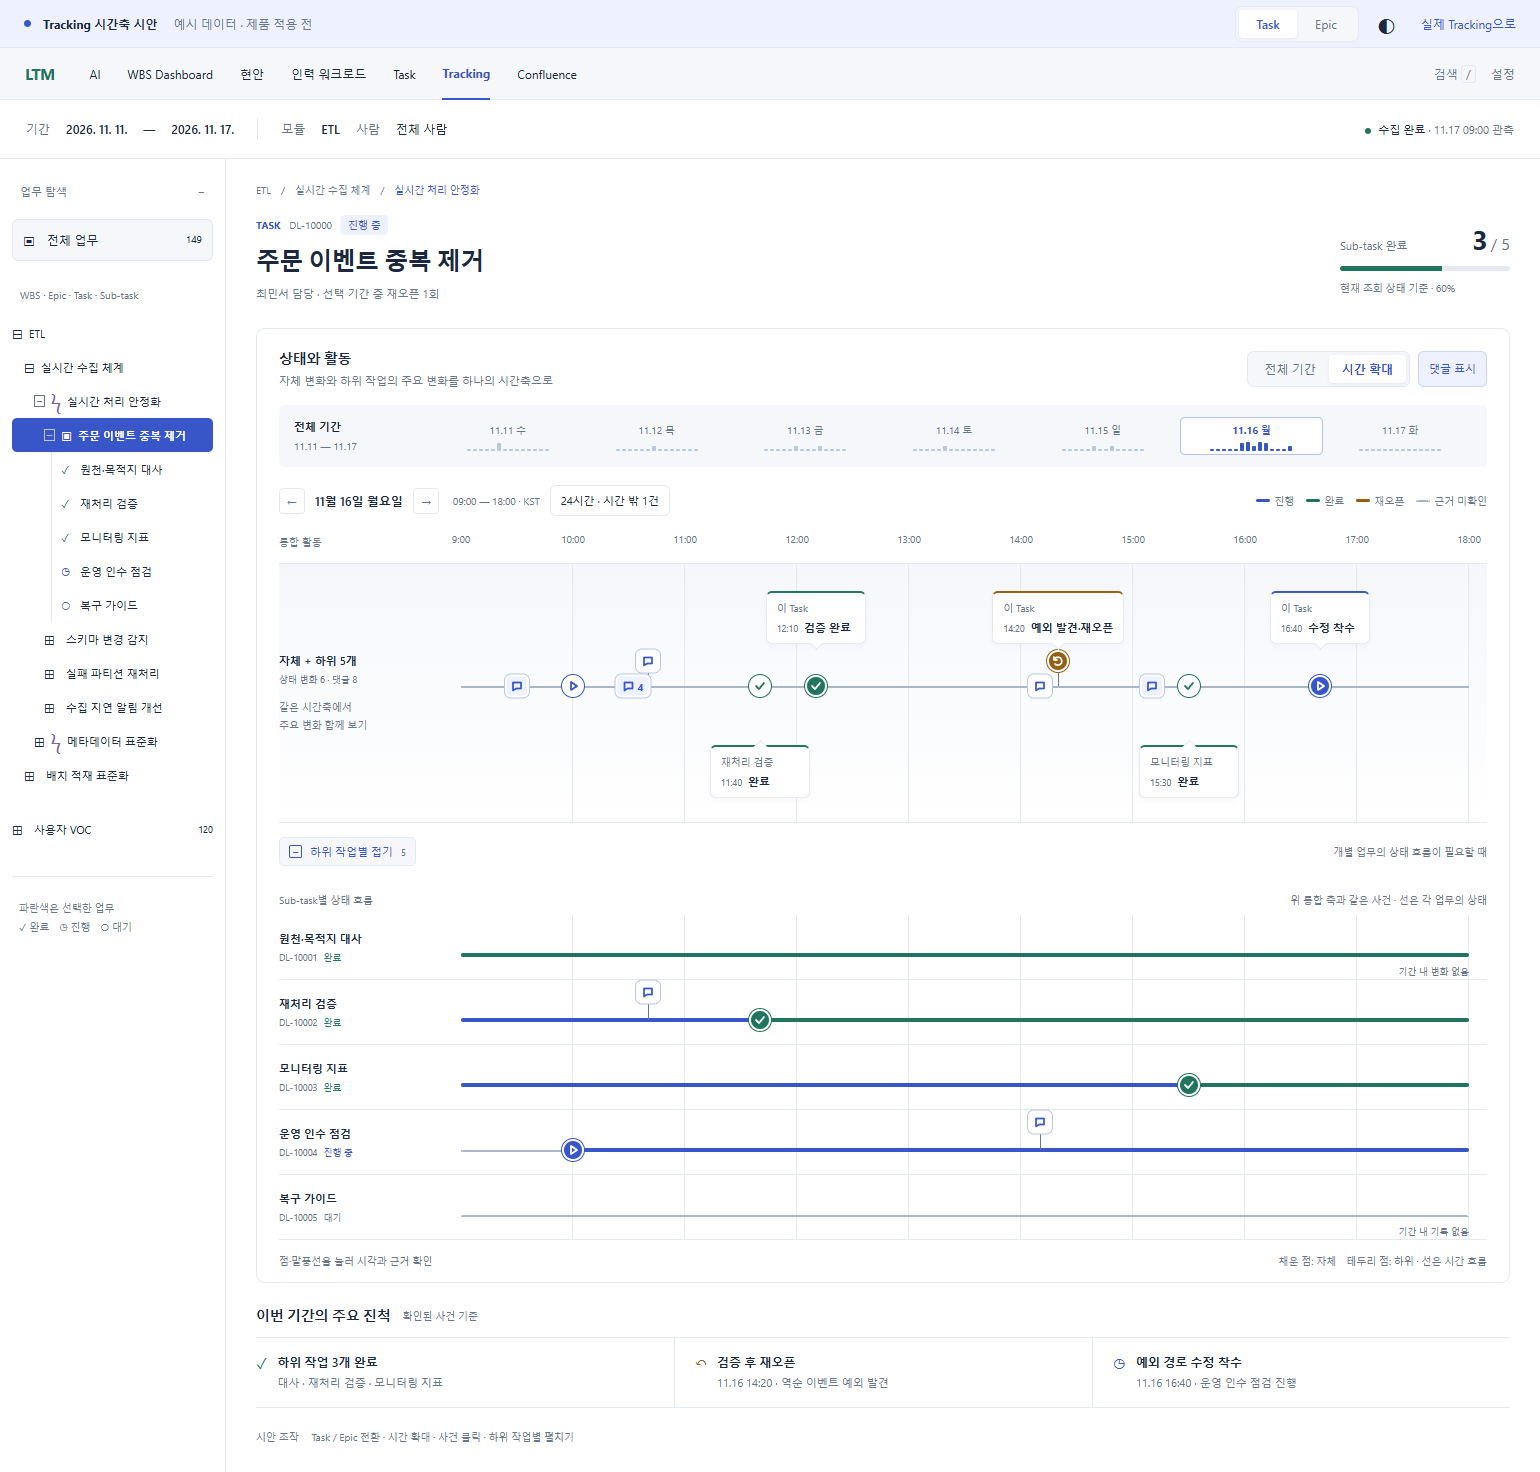
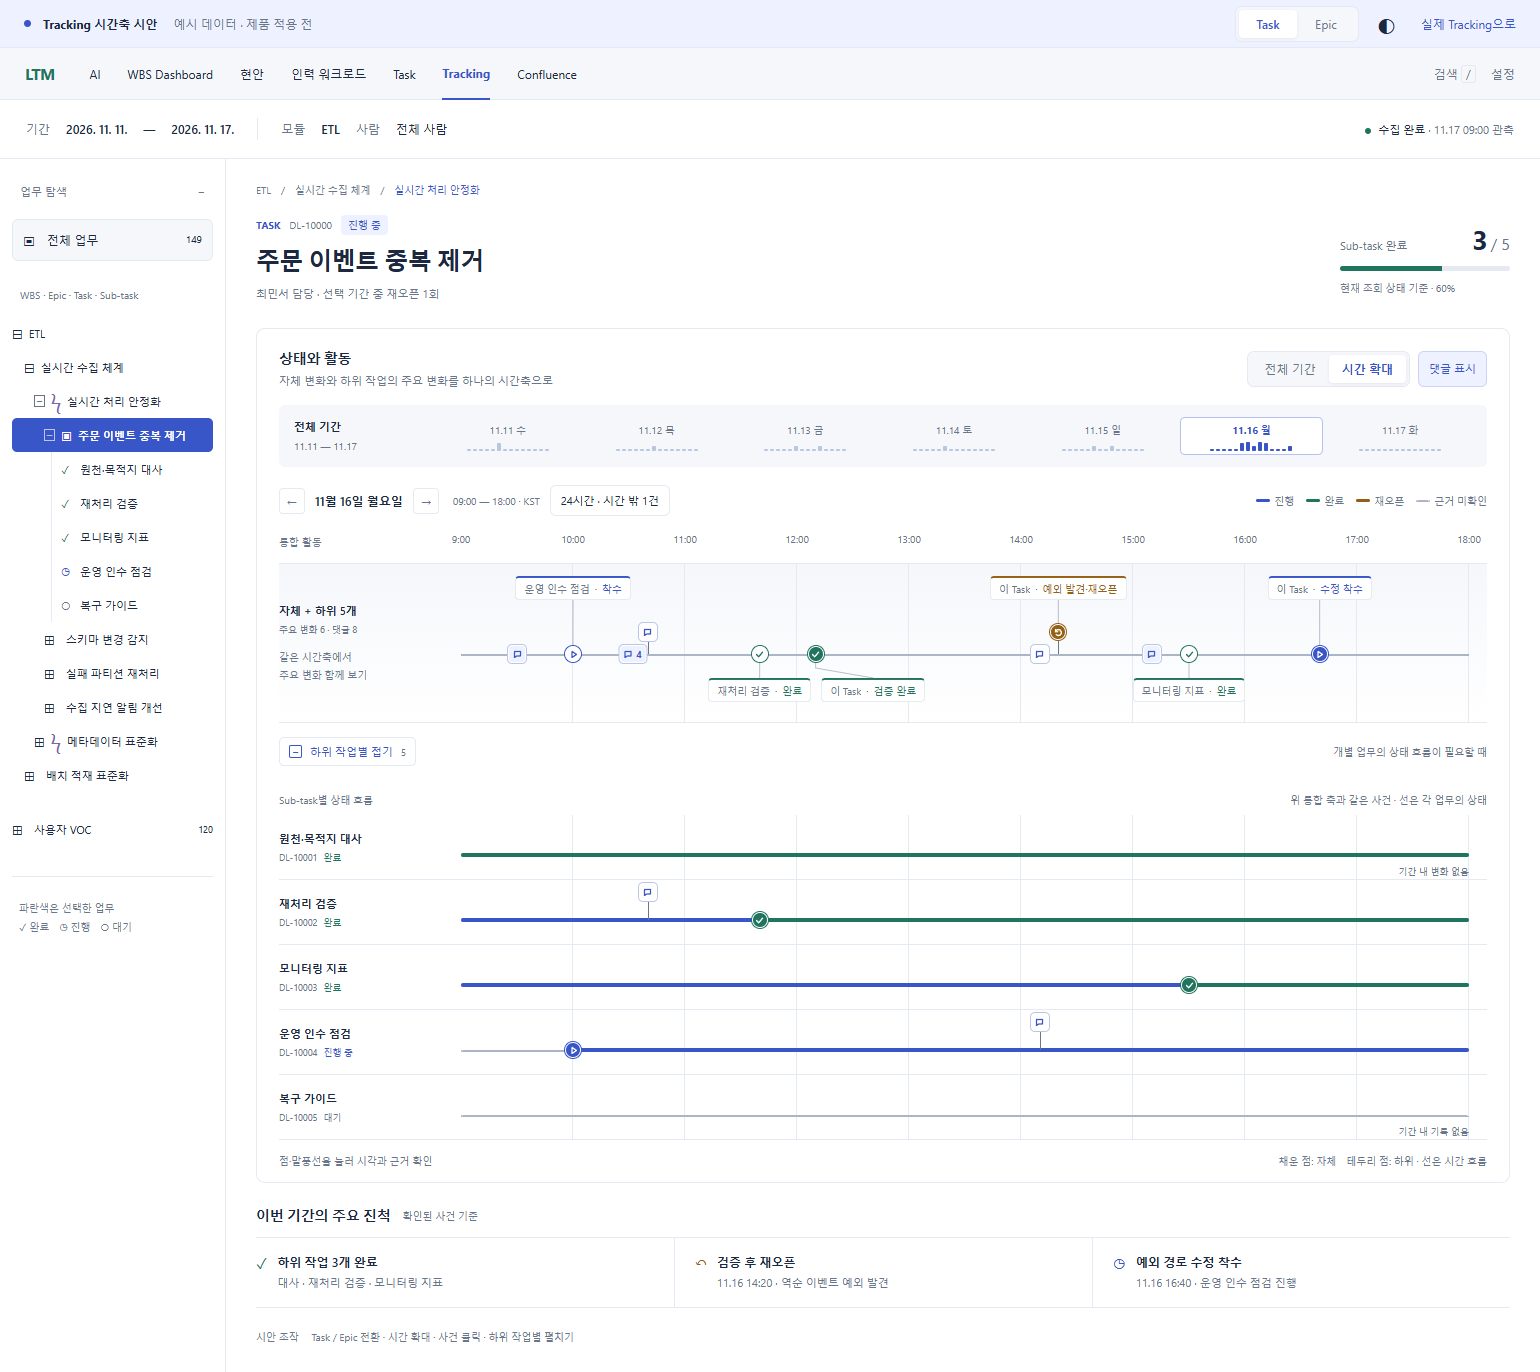
design(tracking): compact callouts and route event leader lines

diff --git a/app/static/design/tracking-time-axis.js b/app/static/design/tracking-time-axis.js
@@ -39,7 +39,7 @@ function x(t){const [a,b]=range();return Math.max(0,Math.min(100,(t-a)/(b-a)*100
 function remember(e,row){const id=registry.length;registry.push({...e,row});return id;}
 function dot(e,row,extra='',offset=0,base=27){
  const id=remember(e,row),type=e.kind==='note'?'note':e.kind;
- return (offset?`<i class="marker-stem" style="left:${x(e.at)}%;top:${Math.min(base,base+offset)}px;height:${Math.abs(offset)}px"></i>`:'')+`<button class="event-dot ${type} ${extra}" style="--x:${x(e.at)}%;${offset?'top:'+(base+offset)+'px':''}" data-event="${id}" aria-expanded="false" aria-label="${esc(full(e.at)+' '+row.title+' '+e.title)}">${svg(e.kind)}${e.members?e.members.length:''}</button>`;
+ return (offset?`<i class="marker-stem" data-stem="${id}" style="left:${x(e.at)}%;top:${Math.min(base,base+offset)}px;height:${Math.abs(offset)}px"></i>`:'')+`<button class="event-dot ${type} ${extra}" style="--x:${x(e.at)}%;${offset?'top:'+(base+offset)+'px':''}" data-event="${id}" data-offset="${offset}" aria-expanded="false" aria-label="${esc(full(e.at)+' '+row.title+' '+e.title)}">${svg(e.kind)}${e.members?e.members.length:''}</button>`;
 }
 function groups(items){
  const [a,b]=range(),threshold=(b-a)*.035,out=[];
@@ -53,20 +53,52 @@ function combinedAxis(owner,rows){
  const changes=sources.flatMap(row=>row.events.filter(e=>e.at>=a&&e.at<=b).map(event=>({event,row})));
  const notes=comments?sources.flatMap(row=>groups(row.comments).map(event=>({event,row}))):[];
  const items=[...changes,...notes].sort((a,b)=>a.event.at-b.event.at||a.row.key.localeCompare(b.row.key));
- let last=-100,stack=0;
- const marks=items.map(({event,row})=>{const pos=x(event.at);stack=pos-last<3.5?stack+1:0;last=pos;
-  return dot(event,row,(event.members?'cluster ':'')+(row===owner?'own-marker':'child-marker'),stack?[0,-25,25,-50,50][stack%5]:0,122);
+ const occupied=[],width=$('#ticks').clientWidth||900;
+ const marks=items.map(item=>{const {event,row}=item,pos=x(event.at)/100*width;
+  let level=occupied.findIndex(last=>pos-last>=34);if(level<0)level=occupied.length;occupied[level]=pos;
+  const offset=level?(level%2?-1:1)*Math.ceil(level/2)*22:0;item.markerId=registry.length;
+  return dot(event,row,(event.members?'cluster ':'')+(row===owner?'own-marker':'child-marker'),offset,122);
  }).join('');
- const trackEnds=[-100,-100];let callouts='';
- for(const {event,row} of changes.filter(({event,row})=>['done','reopen'].includes(event.kind)||row===owner&&event.kind==='start')){
-  const pos=x(event.at);if(pos<10||pos>90)continue;
-  const track=trackEnds.findIndex(end=>pos-end>=20);if(track<0)continue;trackEnds[track]=pos;
+ let callouts='';
+ for(const {event,row,markerId} of changes){
   const id=remember(event,row),source=row===owner?(mode==='task'?'이 Task':'이 Epic'):row.title;
-  const short=row===owner?event.title:({done:'완료',reopen:'재오픈',start:'진행 시작'}[event.kind]||event.title);
-  callouts+=`<button class="bubble summary-callout ${track?'below':''} ${event.kind==='done'?'done':event.kind==='reopen'?'reopen':'blue-top'}" style="--x:${pos}%;--callout-y:${track?181:27}px" data-event="${id}" aria-label="${esc(full(event.at)+' '+row.title+' '+event.title+' 근거')}"><span class="summary-source">${esc(source)}</span><span class="time">${scale==='period'?full(event.at):fmt(event.at)}</span><strong>${esc(short)}</strong></button>`;
+  const short=row===owner?event.title:({done:'완료',reopen:'재오픈',start:'착수',new:'생성'}[event.kind]||event.title);
+  callouts+=`<button class="bubble summary-callout ${event.kind==='done'?'done':event.kind==='reopen'?'reopen':'blue-top'}" data-event="${id}" data-anchor="${markerId}" title="${esc(row.key+' · '+source+' · '+short)}" aria-label="${esc(full(event.at)+' '+row.title+' '+event.title+' 근거')}"><span class="summary-source">${esc(source)}</span><span class="callout-key" hidden>${row.key}</span><span class="callout-separator" aria-hidden="true">·</span><strong>${esc(short)}</strong></button>`;
  }
  const noteCount=notes.reduce((sum,{event})=>sum+(event.members?.length||1),0);
- return `<div class="lane combined" data-change-count="${changes.length}" data-comment-count="${noteCount}"><div class="lane-label"><div class="lane-title">자체 + 하위 ${rows.length}개</div><div class="lane-meta">상태 변화 ${changes.length} · 댓글 ${noteCount}</div><p class="summary-label-note">같은 시간축에서<br>주요 변화 함께 보기</p></div><div class="lane-body" style="--rail-y:122px;height:258px"><div class="rail"></div>${marks}${callouts}${items.length?'':'<span class="summary-empty">이 구간에 확인된 활동 없음</span>'}</div></div>`;
+ return `<div class="lane combined" data-change-count="${changes.length}" data-comment-count="${noteCount}"><div class="lane-label"><div class="lane-title">자체 + 하위 ${rows.length}개</div><div class="lane-meta">주요 변화 ${changes.length} · 댓글 ${noteCount}</div><p class="summary-label-note">같은 시간축에서<br>주요 변화 함께 보기</p></div><div class="lane-body" style="--rail-y:122px;height:220px"><div class="rail"></div><svg class="callout-leaders" aria-hidden="true"></svg>${marks}${callouts}${items.length?'':'<span class="summary-empty">이 구간에 확인된 활동 없음</span>'}</div></div>`;
+}
+function layoutCallouts(){
+ const body=$('.combined .lane-body');if(!body)return;
+ const width=body.clientWidth,padding=4,gap=10,rowHeight=24,rowGap=10;
+ const occupied=[];
+ const markers=[...body.querySelectorAll('.event-dot')].sort((a,b)=>registry[Number(a.dataset.event)].at-registry[Number(b.dataset.event)].at);
+ body.querySelectorAll('.marker-stem').forEach(stem=>stem.remove());
+ for(const marker of markers){const pos=x(registry[Number(marker.dataset.event)].at)/100*width;let level=occupied.findIndex(last=>pos-last>=34);if(level<0)level=occupied.length;occupied[level]=pos;
+  const offset=level?(level%2?-1:1)*Math.ceil(level/2)*22:0;marker.dataset.offset=String(offset);
+  if(offset)body.insertAdjacentHTML('beforeend',`<i class="marker-stem" data-stem="${marker.dataset.event}" style="left:${x(registry[Number(marker.dataset.event)].at)}%;height:${Math.abs(offset)}px"></i>`);
+ }
+ const buttons=[...body.querySelectorAll('.summary-callout')];
+ const sourceCounts=new Map();for(const b of buttons){const title=registry[Number(b.dataset.event)].row.title;sourceCounts.set(title,(sourceCounts.get(title)||new Set()).add(registry[Number(b.dataset.event)].row.key));}
+ for(const b of buttons){const source=b.querySelector('.summary-source'),e=registry[Number(b.dataset.event)];b.querySelector('.callout-key').hidden=source.scrollWidth<=source.clientWidth&&sourceCounts.get(e.row.title).size<2;}
+ const tracks=[[],[]],used=[0,0];
+ const labels=buttons.map(button=>({button,width:button.getBoundingClientRect().width,anchor:x(registry[Number(button.dataset.event)].at)/100*width})).sort((a,b)=>a.anchor-b.anchor);
+ for(const item of labels){let index=-1;for(let i=0;i<tracks.length;i++){if(used[i]+(tracks[i].length?gap:0)+item.width<=width-padding*2&&(index<0||used[i]<used[index]))index=i;}if(index<0){index=tracks.length;tracks.push([]);used.push(0);}used[index]+=(tracks[index].length?gap:0)+item.width;tracks[index].push(item);}
+ const offsets=[...body.querySelectorAll('.event-dot')].map(b=>Number(b.dataset.offset)||0),above=Math.max(0,...offsets.map(n=>-n)),below=Math.max(0,...offsets);
+ const upperCount=Math.ceil(tracks.length/2),lowerCount=Math.floor(tracks.length/2),baseline=12+upperCount*(rowHeight+rowGap)+above+22;
+ const lowerStart=baseline+below+24,height=lowerStart+lowerCount*(rowHeight+rowGap)+10;
+ body.style.setProperty('--rail-y',baseline+'px');body.style.height=height+'px';
+ body.querySelectorAll('.event-dot').forEach(b=>b.style.top=baseline+Number(b.dataset.offset)+'px');
+ body.querySelectorAll('[data-stem]').forEach(stem=>{const offset=Number(body.querySelector(`[data-event="${stem.dataset.stem}"]`).dataset.offset);stem.style.top=baseline+Math.min(0,offset)+'px';});
+ let paths='';
+ tracks.forEach((track,index)=>{let end=padding-gap;for(const item of track){item.left=Math.max(padding,item.anchor-item.width/2,end+gap);end=item.left+item.width;}let limit=width-padding;for(const item of [...track].reverse()){item.left=Math.min(item.left,limit-item.width);limit=item.left-gap;}
+  const upper=index%2===0,y=upper?12+Math.floor(index/2)*(rowHeight+rowGap):lowerStart+Math.floor(index/2)*(rowHeight+rowGap);
+  for(const {button,left,width:labelWidth,anchor} of track){button.style.left=left+'px';button.style.top=y+'px';button.dataset.track=String(index);
+   const marker=body.querySelector(`.event-dot[data-event="${button.dataset.anchor}"]`),my=baseline+Number(marker.dataset.offset),tipY=upper?y+rowHeight:y,bendY=upper?baseline-above-14:baseline+below+14;
+   paths+=`<path data-anchor="${button.dataset.anchor}" d="M ${anchor} ${my+(upper?-8:8)} L ${anchor} ${bendY} L ${left+labelWidth/2} ${tipY}"/>`;
+  }
+ });
+ const leaders=body.querySelector('.callout-leaders');leaders.setAttribute('viewBox',`0 0 ${width} ${height}`);leaders.innerHTML=paths;
 }
 function lane(row,primary=false,commentOnly=false){
  const [a,b]=range(),events=row.events.filter(e=>e.at>=a&&e.at<=b),all=row.events.filter(e=>e.at<=b).sort((a,b)=>a.at-b.at);
@@ -112,6 +144,7 @@ function render(){
  $('#childrenToggle').innerHTML=`<span class="fold-symbol">${expandedChildren?'−':'+'}</span>하위 작업별 ${expandedChildren?'접기':'펼치기'} <small>${rows.length}</small>`;$('#childrenToggle').setAttribute('aria-expanded',String(expandedChildren));
  $('#childLanes').hidden=!expandedChildren;$('#childLanes').innerHTML=expandedChildren?`<div class="group-heading"><span>${mode==='task'?'Sub-task':'하위 Task'}별 상태 흐름</span><span>위 통합 축과 같은 사건 · 선은 각 업무의 상태</span></div>`+rows.map(r=>lane(r)).join(''):'';
  $$('.lane-body').forEach(e=>e.style.backgroundSize=scale==='day'?(fullDay?'112.5% 100%':'100% 100%'):'128.5714% 100%');
+ layoutCallouts();
  $('#chartHint').textContent=scale==='day'?'점·말풍선을 눌러 시각과 근거 확인':'날짜를 눌러 시간 확대 · 간격은 실제 경과 시간';
  $('#resultItems').innerHTML=mode==='task'?'<div class="result-item"><span class="result-icon">✓</span><div><b>하위 작업 3개 완료</b><p>대사 · 재처리 검증 · 모니터링 지표</p></div></div><div class="result-item"><span class="result-icon" style="color:var(--amber)">↶</span><div><b>검증 후 재오픈</b><p>11.16 14:20 · 역순 이벤트 예외 발견</p></div></div><div class="result-item"><span class="result-icon" style="color:var(--blue)">◷</span><div><b>예외 경로 수정 착수</b><p>11.16 16:40 · 운영 인수 점검 진행</p></div></div>':'<div class="result-item"><span class="result-icon">✓</span><div><b>Task 3개 완료</b><p>스키마 감지 · 재처리 · 지연 알림</p></div></div><div class="result-item"><span class="result-icon" style="color:var(--amber)">↶</span><div><b>중복 제거 Task 재확인</b><p>검증 이후 예외 발견 · 수정 착수</p></div></div><div class="result-item"><span class="result-icon" style="color:var(--blue)">◷</span><div><b>현재 진행 2개 · 대기 1개</b><p>활동량과 완료 비율을 구분해 표시</p></div></div>';
 }
@@ -128,4 +161,14 @@ $('#prevDay').onclick=()=>{day--;render();};$('#nextDay').onclick=()=>{day++;ren
 $('#fullDay').onclick=()=>{fullDay=!fullDay;render();};
 $('#childrenToggle').onclick=()=>{expandedChildren=!expandedChildren;render();};
 $('#theme').onclick=()=>{const dark=document.documentElement.dataset.theme!=='dark';document.documentElement.dataset.theme=dark?'dark':'light';$('#theme').setAttribute('aria-label',dark?'밝은 테마로 보기':'어두운 테마로 보기');};
-window.addEventListener('resize',()=>closePopover(false));render();
+function highlightConnection(target){
+ $$('.is-related').forEach(e=>e.classList.remove('is-related'));
+ const button=target?.closest?.('.combined .event-dot,.summary-callout');if(!button)return;
+ const anchor=button.dataset.anchor||button.dataset.event;
+ $$('.combined [data-anchor="'+anchor+'"],.combined .event-dot[data-event="'+anchor+'"]').forEach(e=>e.classList.add('is-related'));
+}
+document.addEventListener('pointerover',e=>highlightConnection(e.target));
+document.addEventListener('pointerout',e=>highlightConnection(e.relatedTarget));
+document.addEventListener('focusin',e=>highlightConnection(e.target));
+document.addEventListener('focusout',e=>highlightConnection(e.relatedTarget));
+window.addEventListener('resize',()=>{closePopover(false);layoutCallouts();});render();

diff --git a/app/static/design/tracking-time-axis.css b/app/static/design/tracking-time-axis.css
@@ -10,3 +10,8 @@ html[data-theme=dark]{--ink:#e4eaf4;--muted:#9aaac1;--line:#2a374d;--bg:#131e2e;
 
 /* One shared chronological axis is the default; per-ticket states are opt-in. */
 .combined{background:linear-gradient(var(--bg),var(--panel))}.combined .rail{height:2px;background:#abb5c6}.combined .lane-label{align-self:center}.summary-label-note{font-size:10px;line-height:1.8;color:var(--muted);margin-top:13px}.combined .child-marker{background:var(--panel);color:var(--blue)}.combined .child-marker.done{color:var(--green)}.combined .child-marker.reopen{color:var(--amber)}.combined .own-marker{border-width:2px}.combined .event-dot.note.own-marker{background:var(--blue-light);color:var(--blue)}.summary-callout{top:var(--callout-y);bottom:auto;max-width:180px;min-width:100px;text-align:left;padding:8px 10px}.summary-source{display:block;font-size:10px;color:var(--muted);margin-bottom:5px;max-width:150px;overflow:hidden;text-overflow:ellipsis}.summary-callout strong{font-size:11px;font-weight:550}.summary-callout.below:after{bottom:auto;top:-5px;border-bottom:0;border-right:0;border-top:1px solid var(--line);border-left:1px solid var(--line)}.child-expansion{padding:14px 0;display:flex;align-items:center;justify-content:space-between;gap:12px}.child-expansion>span{font-size:10px;color:var(--muted)}.child-expansion button{display:flex;gap:8px;align-items:center;padding:6px 9px;border:1px solid var(--line);border-radius:5px;font-size:11px;color:var(--blue)}.child-expansion small{color:var(--muted);font-variant-numeric:tabular-nums}.fold-symbol{width:13px;height:13px;border:1px solid currentColor;border-radius:2px;display:grid;place-items:center;font-size:11px;line-height:1}.summary-empty{position:absolute;top:145px;left:0;font-size:11px;color:var(--muted)}
+
+/* Compact markers and one-line callouts, routed without moving event timestamps. */
+.event-dot{width:16px;height:16px;border-width:1.5px}.event-dot svg{width:9px;height:9px;stroke-width:1.8}.combined .own-marker{border-width:1.5px}.event-dot.note{width:18px;height:18px;border-radius:4px}.event-dot.cluster{width:auto;min-width:27px;padding:0 3px;gap:2px;font-size:9px}.event-dot:before{content:"";position:absolute;inset:-4px;border-radius:inherit}.summary-callout{display:flex;align-items:center;gap:5px;min-width:0;max-width:240px;height:24px;line-height:16px;padding:3px 8px;border-radius:4px;transform:none;box-shadow:none;border-top-width:1px;white-space:nowrap}.summary-callout:after{display:none}.summary-source{display:inline;flex:0 1 auto;font-size:10px;line-height:16px;max-width:140px;min-width:0;margin:0;white-space:nowrap;overflow:hidden;text-overflow:ellipsis}.summary-callout strong{font-size:10px;line-height:16px;flex-shrink:0;font-weight:500}.summary-callout.done strong{color:var(--green)}.summary-callout.reopen strong{color:var(--amber)}.summary-callout.blue-top strong{color:var(--blue)}.callout-separator{color:var(--muted);font-size:10px}.callout-key{font-size:9px;flex-shrink:0;color:var(--muted)}.callout-leaders{position:absolute;inset:0;width:100%;height:100%;overflow:visible;pointer-events:none;z-index:1}.callout-leaders path{fill:none;stroke:var(--muted);stroke-width:1;opacity:.45;vector-effect:non-scaling-stroke;stroke-linejoin:round;stroke-linecap:round}.callout-leaders path.is-related{stroke:var(--blue);stroke-width:1.7;opacity:1}.summary-callout.is-related{border-color:var(--blue);background:var(--blue-light)}.event-dot.is-related{outline:2px solid var(--blue);outline-offset:2px}.summary-empty{top:calc(var(--rail-y) + 20px)}
+
+html[data-theme=dark] .combined .child-marker{color:var(--blue)}html[data-theme=dark] .combined .child-marker.done{color:var(--green)}html[data-theme=dark] .combined .child-marker.reopen{color:var(--amber)}

diff --git a/docs/design/tracking/time-axis-proposal.md b/docs/design/tracking/time-axis-proposal.md
@@ -30,7 +30,11 @@
 - 진행: 청색 선·재생 표식. 완료: 녹색 선·체크. 재오픈: 황색 선·되돌림. 색과 모양 함께 사용.
 - 댓글: 말풍선 아이콘. 가까운 댓글만 숫자 묶음으로 표시하며 클릭하면 시작/끝 시각과 개별 항목 확인. 근거 펼치기는 묶음 전체의 본문을 시각·제목별로 구분.
 - 상태 전환은 묶지 않음. 좁은 구간에서 점의 x좌표를 유지한 채 세로로 분리하고 연결선 표시.
-- 대표 말풍선은 업무명 + 시각 + 짧은 변화로 표시. 위아래로 배치해 겹침을 피하고 공간이 모자라면 사건 점만 유지.
+- 상태 아이콘 16px, 댓글 아이콘 18px. 시각 크기보다 넓은 클릭 영역과 키보드 포커스 유지.
+- 안내 말풍선은 높이 24px의 `업무명 · 변화` 한 줄. 날짜·시간은 안내에 표시하지 않으며 클릭한 상세 근거에서 확인.
+- 말풍선 너비를 측정해 위아래 줄에 겹치지 않게 배치. 밀집 시 말풍선을 옮기고 실제 아이콘의 x/y에서 연결선을 그림. 사건의 시간 좌표는 이동하지 않음.
+- 아이콘·연결선·말풍선은 호버/포커스 시 함께 강조. 제목이 잘리거나 같은 업무명이 반복되면 티켓 키로 보완.
+- 같은 시간대 사건이 많아도 표식의 세로 위치를 반복 사용하지 않음. 화면 크기·기간·확대 범위 변경 시 위치와 연결선 재계산.
 - 클릭·키보드로 말풍선 열기. 정확한 시각, 업무명·키, 짧은 설명, 근거 펼치기. Esc 닫기·원래 표식으로 포커스 복귀.
 - 댓글 원문·긴 증빙은 시간축 밖의 근거 영역에서 확인. 자체/하위 사건과 현재 선택 범위 계약 유지.
 - 일괄 펼치기 시 긴 본문을 시간축에 쌓지 않음. 요약 행과 세부 근거의 역할 분리.
@@ -51,7 +55,11 @@
 이동·상호작용 중 API 요청 0건. JS 문법 검사·diff 공백 검사 통과.
 단일 축 기본값과 Task 하위 5행 / Epic 하위 6행 확장 검증. 접기 전후 완료 수·사건 수·시간 범위 동일.
 하위 완료 사건의 근거가 해당 티켓 `DL-10002`로 연결됨을 확인. 댓글은 같은 출처끼리만 묶음.
+작은 아이콘·한 줄 안내 후 1540/1280px에서 일반 6개·밀집 12개 말풍선의 겹침 없음 확인.
+말풍선 높이 24px, 연결선 시작점과 실제 아이콘 좌표 일치, 크기 변경 시 재배치 검증.
+일반 통합 축 높이 258px → 158px. 밀집 12개는 화면 폭에 따라 268/290px로 확장.
 제품 적용 전 사용자가 시안을 검토할 수 있는 독립 HTML/CSS/JS 산출물.
 
 정적 미리보기: `/design/tracking-time-axis-task.png`, `/design/tracking-time-axis-epic.png`, `/design/tracking-time-axis-comments.png`.
 확장 예시: `/design/tracking-time-axis-expanded.png`.
+밀집 안내 예시: `/design/tracking-time-axis-dense.png`.

diff --git a/.omd/preferences.md b/.omd/preferences.md
@@ -34,3 +34,18 @@ source_context: "docs/design/tracking/time-axis-proposal.md"
 ```
 
 Summarize parent and child task events on one shared timeline axis by default; show individual child timelines only through an explicit expansion option.
+
+## 2026-11-17T01:48:54.592Z — compact-callouts-with-leader-lines
+
+```omd-meta
+id: pref_mwk1afgg_7cbe165c
+timestamp: 2026-11-17T01:48:54.592Z
+scope: components.timeline
+signal: user-correction
+confidence: explicit
+status: pending
+source_agent: codex
+source_context: "docs/design/tracking/time-axis-proposal.md"
+```
+
+Use smaller timeline icons and short single-line callouts without visible dates or times. Route leader lines from icons to offset callouts when annotations are dense.
